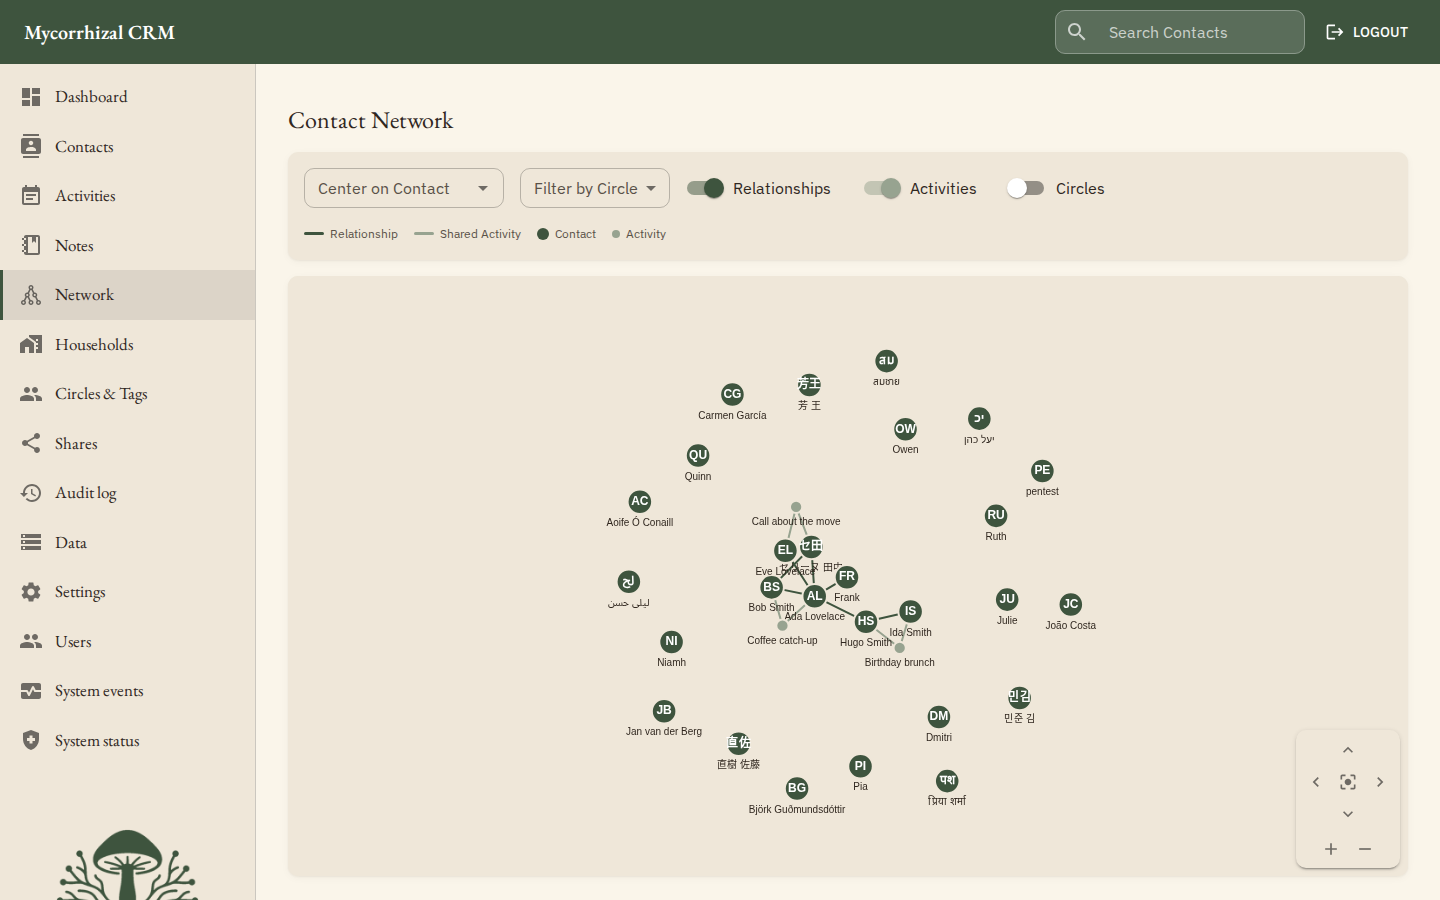
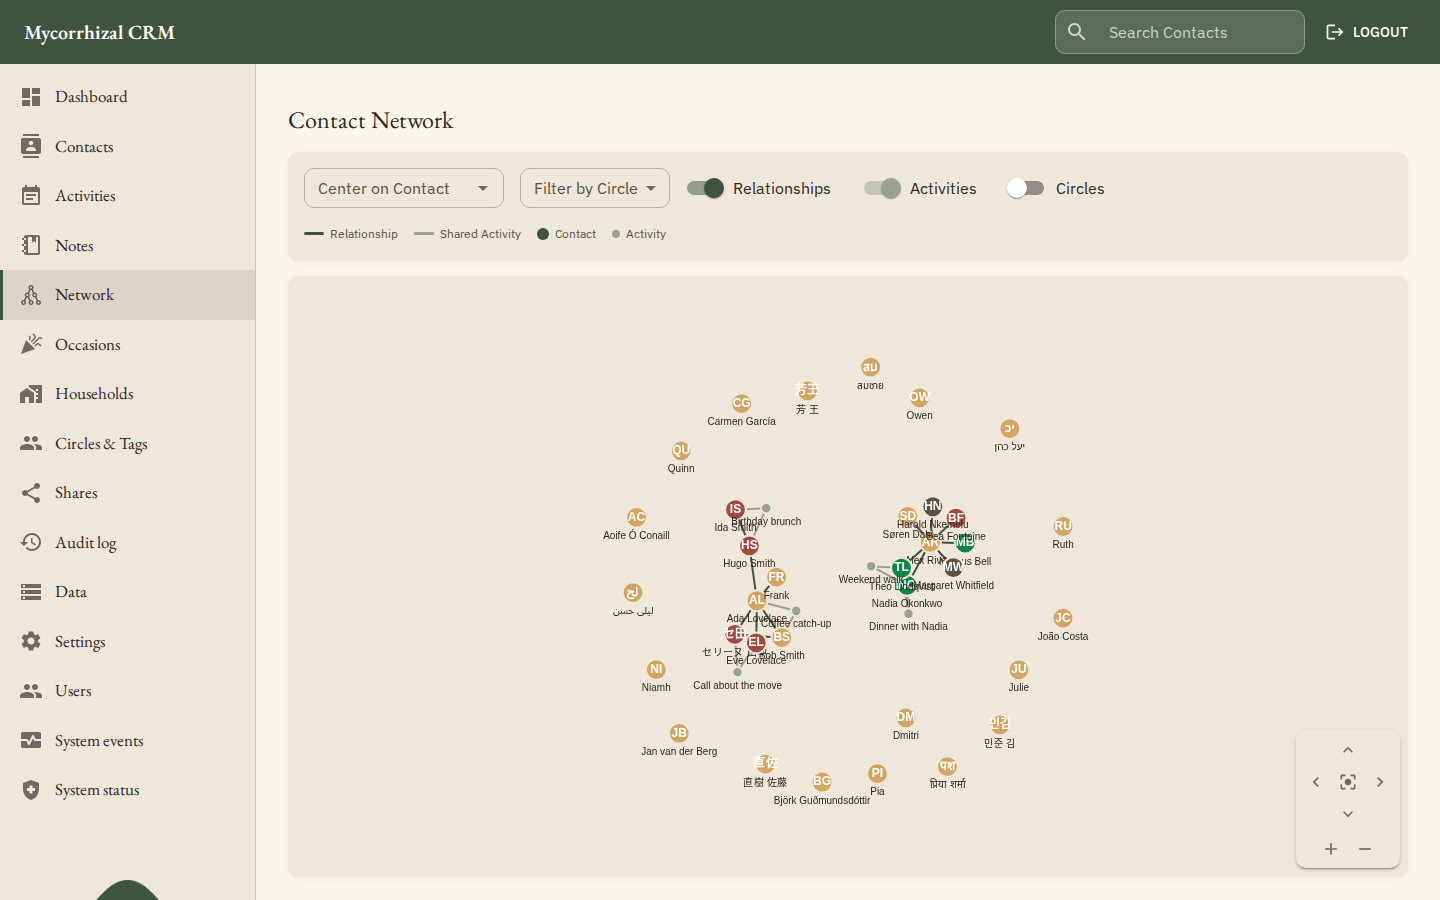
docs(readme): refresh screenshots for the v1.2.0 demo dataset
Regenerate the four README screenshots from the refreshed demo profile --
dashboard (favorites, overdue cadence, reach-out), contact detail (healthy
badge, hobby proficiency, occasions tab), network graph (moss/chanterelle/
russula plus neutral deceased nodes) and prep view (health, last interaction,
temporal-period life event).

The previous images were a one-off hand capture with no tooling; commit a
reproducible replacement, frontend/scripts/capture-readme-screenshots.mjs,
and a runbook in docs/development/pentest-environment.md so the next refresh
is a documented command against docker-compose.pentest.yml rather than an
undocumented manual browser session.

diff --git a/docs/development/pentest-environment.md b/docs/development/pentest-environment.md
@@ -64,9 +64,9 @@ The `PENTEST_PROFILE` environment variable selects the dataset shape:
 
 | Profile | Users | Contacts / user | For |
 |---|---|---|---|
-| `demo` (default) | 1 | 27 | screenshots & docs — realistic display names, clean group labels, one of every data shape |
-| `smoke` | 2 | 162 | a small cross-tenant target set — two isolated users to probe for IDOR |
-| `typical` | 1 | 918 | a realistic long-lived personal CRM |
+| `demo` (default) | 1 | 35 | screenshots & docs — realistic display names, clean group labels, one of every data shape |
+| `smoke` | 2 | 175 | a small cross-tenant target set — two isolated users to probe for IDOR |
+| `typical` | 1 | 945 | a realistic long-lived personal CRM |
 | `large` | 3 | ~15k | a heavy multi-account instance |
 
 ```bash
@@ -83,7 +83,7 @@ The dataset is the canonical pathological fixture (TEST-02, issue #430) —
 [its README](../../testdata/canonical-fixture/README.md). Every profile carries,
 per user:
 
-- ~27 contacts with full RFC 9553 cards: international names and scripts,
+- ~35 contacts with full RFC 9553 cards: international names and scripts,
   multi-valued emails/phones/addresses, pronouns, personal info, keywords,
   localizations, single-name edge cases;
 - notes, activities, gifts, life events, households, circles, tags, preferences,
@@ -92,7 +92,16 @@ per user:
   sensitivities (the credentials file lists which are present) — the
   cross-cutting rule a leak test targets;
 - one **soft-deleted** contact plus a contact that **re-uses its `vcard_uid`**,
-  and duplicate-detection pairs (the *Review duplicates* surface is populated).
+  and duplicate-detection pairs (the *Review duplicates* surface is populated);
+- the v1.2.0 shapes a manual engagement should target: a **self-contact** with a
+  deliberate **relationship-health spread** (moss / chanterelle / russula nodes
+  in the network graph), **deceased** contacts carrying a `DEATHDATE` (they must
+  drop out of birthdays, cadence-overdue and reach-out detection), **cadence
+  policies** and **pending reach-out suggestions**,
+  **occasion obligations and RSVP events**, temporal periods, and hobby
+  preferences with proficiency levels. The relative-timing rows
+  (`days_ago`) resolve at seed time, so the spread does not rot as wall-clock
+  time advances.
 
 On top of the fixture loader, `pentestseed` does the one thing it deliberately
 does not: rewrites every seeded user into a working HTTP login
@@ -145,6 +154,30 @@ exercised by nothing — the state issue #946 found it in.
 | **Last engagement** | #860 — two-agent credentialed assessment, 2026-09 (findings #861–#877) |
 | **Cadence** | at least once per minor release, at most 6 months apart (#946) |
 | **Harness drift check** | `.github/workflows/pentest-harness.yml`, weekly (Mondays 04:00 UTC) |
+
+## Regenerating the README screenshots
+
+`README.md` embeds four screenshots from `assets/screenshots/`. They are shot
+from this environment (the `demo` profile) at a 1440×900 viewport with
+`frontend/scripts/capture-readme-screenshots.mjs`:
+
+```bash
+# 1. Bring up the demo dataset (or reuse a running one) on http://localhost:7300
+docker compose -f docker-compose.pentest.yml up -d --build --wait
+
+# 2. Capture (the script logs in as `pentest` and finds the featured "Nadia"
+#    persona through the API; override CONTACT to feature a different one)
+cd frontend && node scripts/capture-readme-screenshots.mjs
+
+# 3. Review the four PNGs and commit the diff
+git status assets/screenshots
+```
+
+The script is intentionally not wired into CI — these images are documentation,
+not a regression gate (the pinned, mocked `frontend/e2e/visual.spec.ts` suite is
+the visual-regression artifact). The contact the detail/prep shots feature is
+the rich `nadia` v1.2.0 demo persona; keep `CONTACT` in sync if the fixture's
+lead persona changes.
 
 ## Relationship to the DAST job
 
